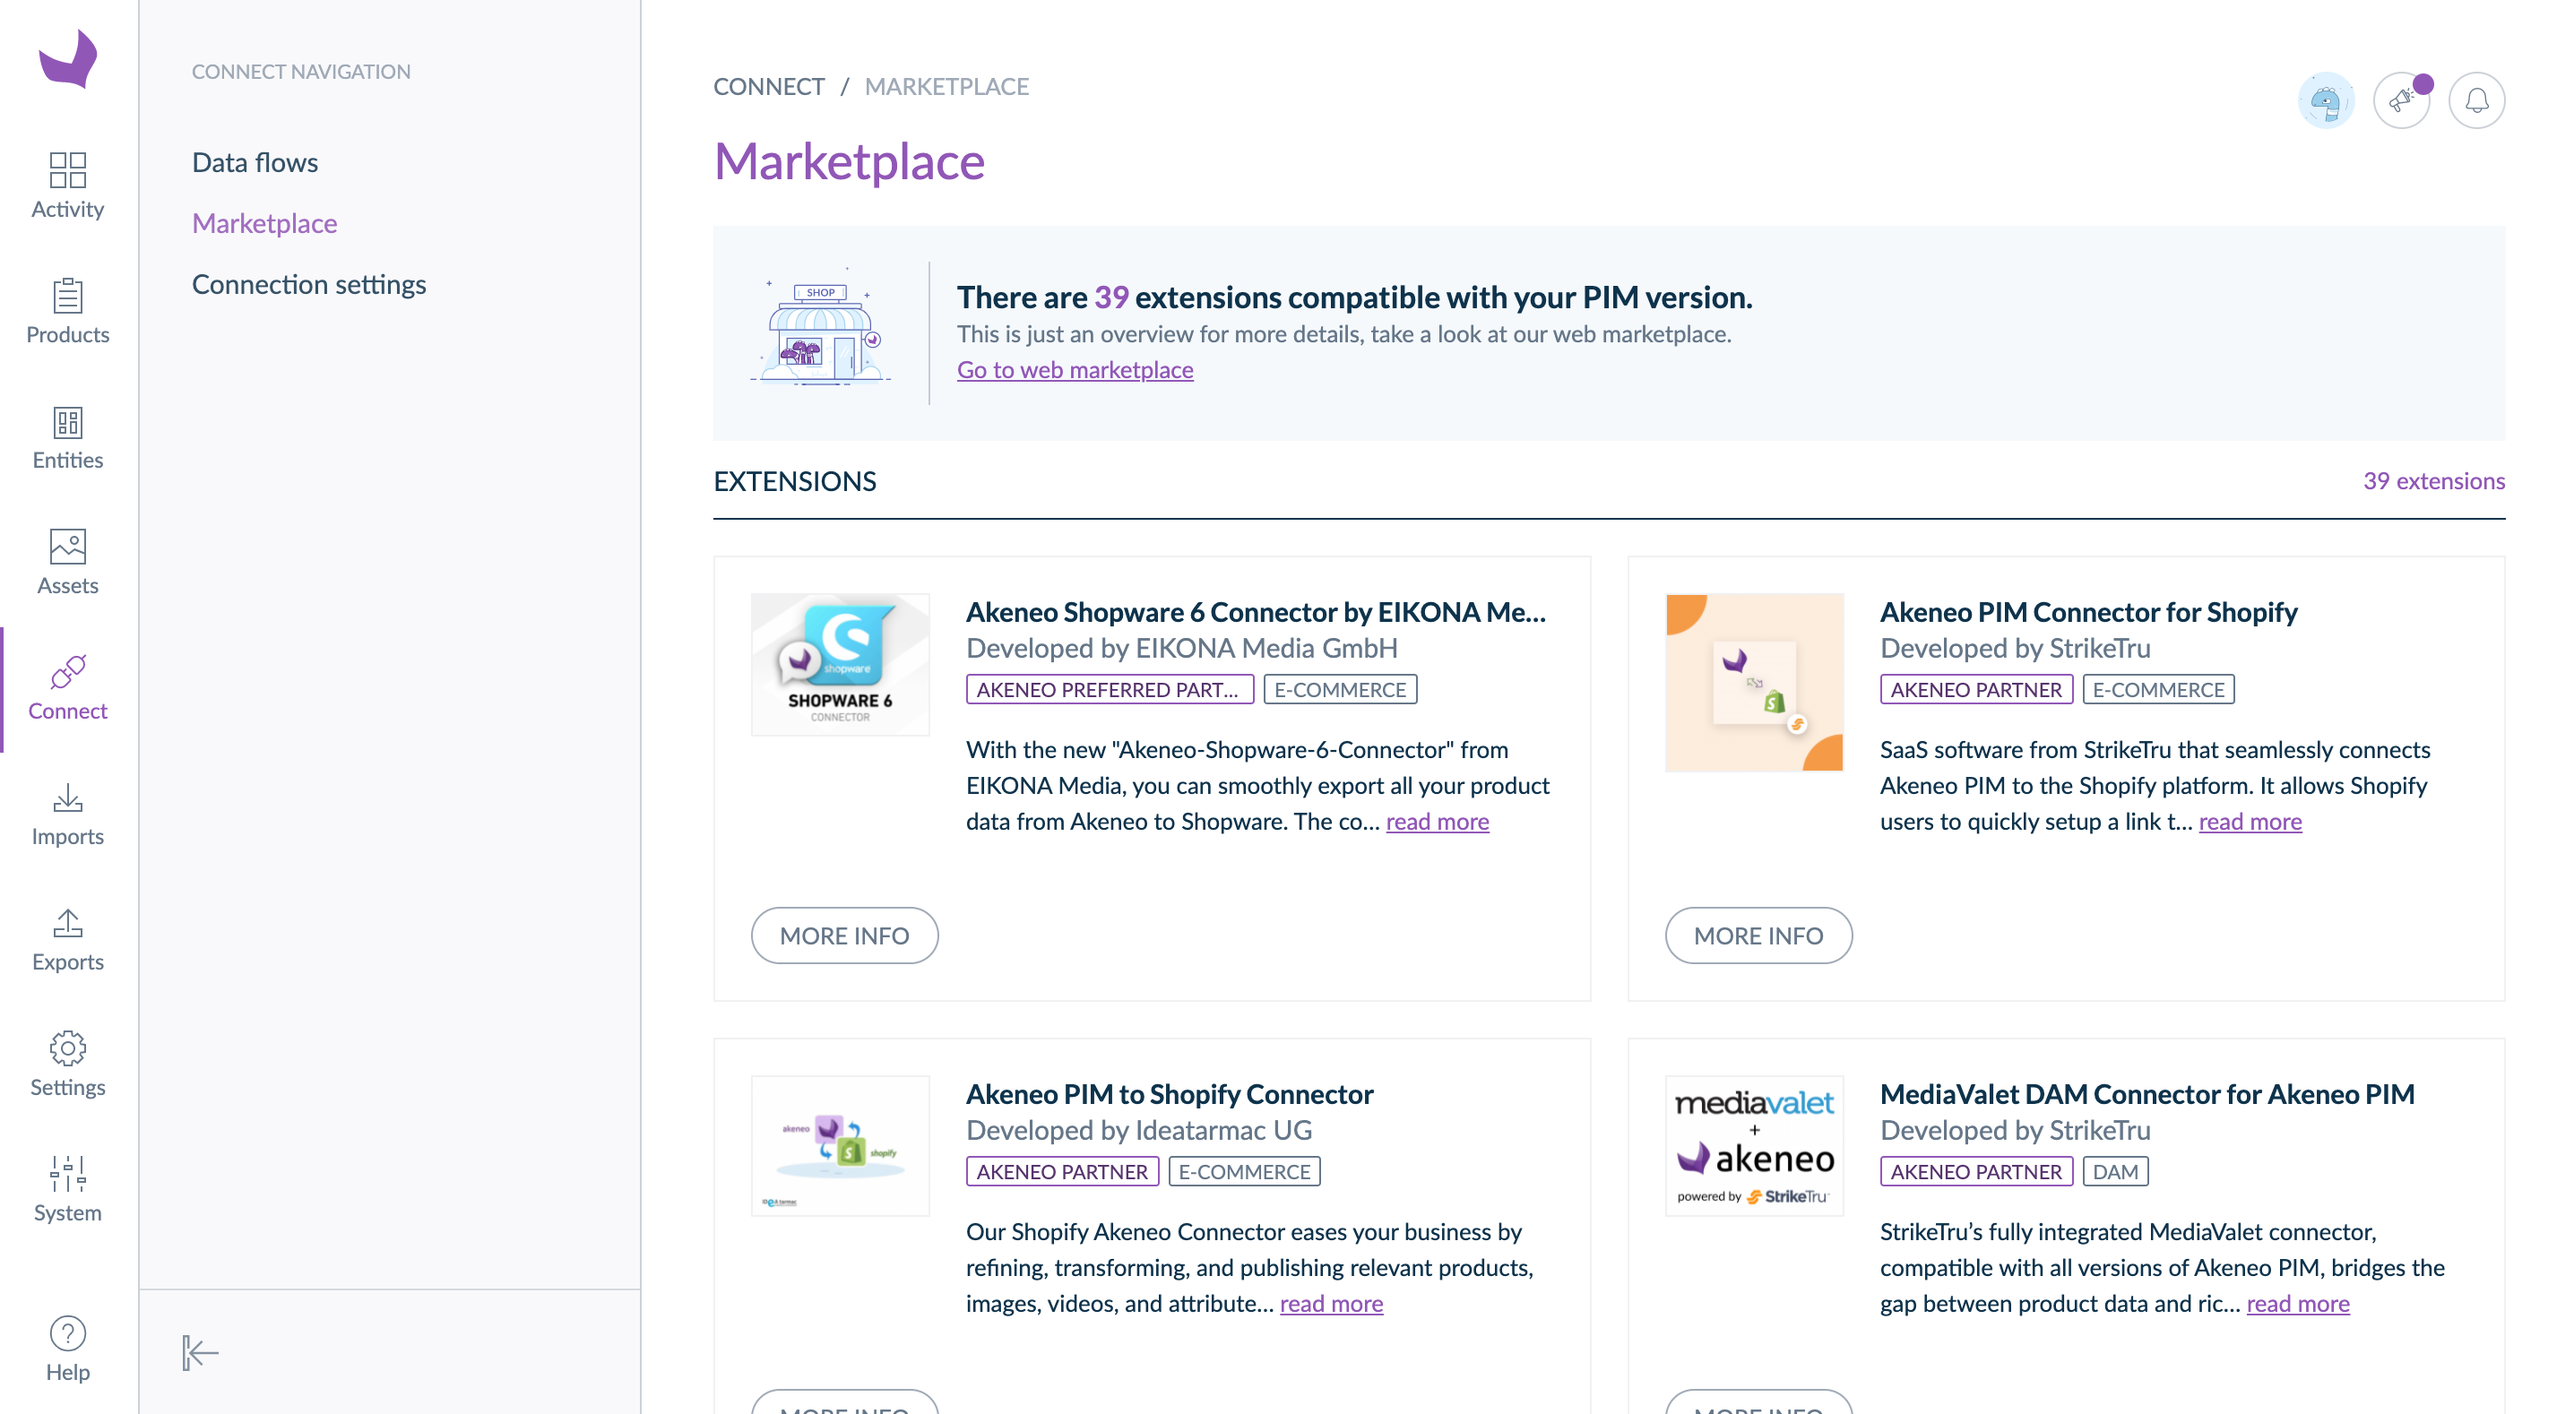
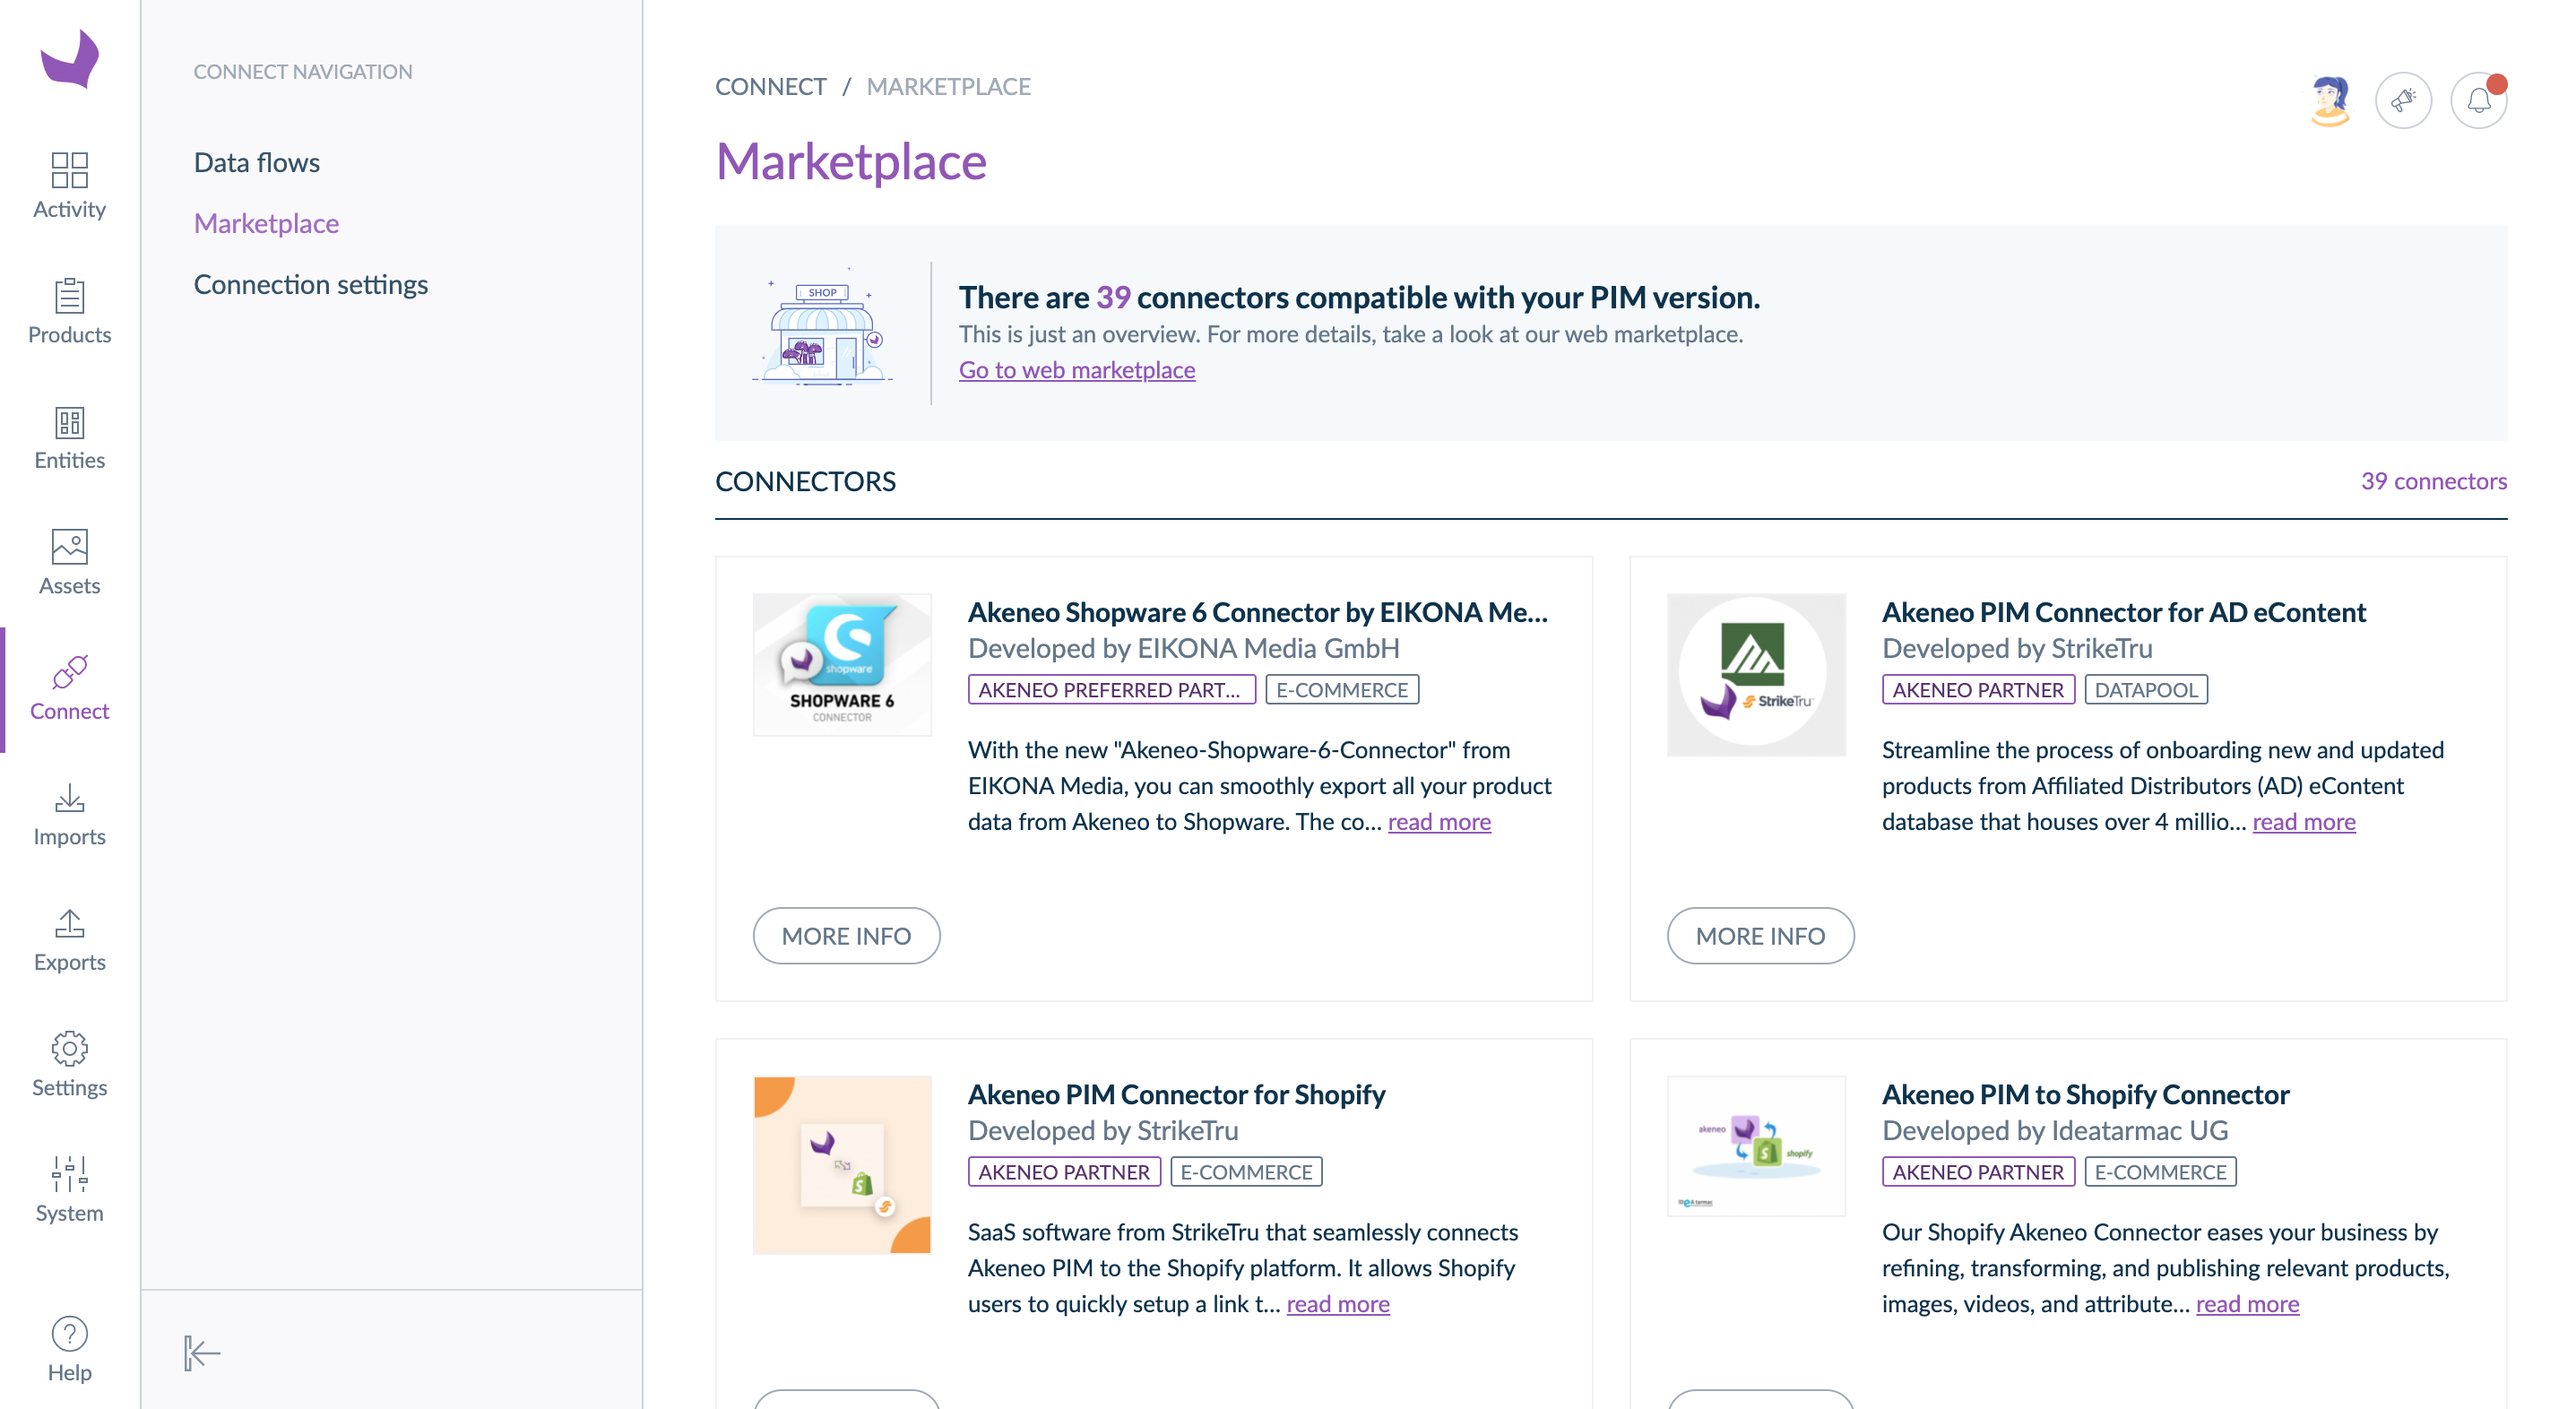
update pim marketplace

diff --git a/content/md/what-is/what-is-the-pim-marketplace.md b/content/md/what-is/what-is-the-pim-marketplace.md
@@ -9,33 +9,33 @@ related: how-to-connect-my-pim, connection-dashboard, manage-your-connections
 
 # The first step to connect your PIM
 
-At Akeneo, we know that you need to gather all your product data, but, you also need to retrieve product data or share them. This is why we introduced the `Connections` in Akeneo PIM 4.0.
+At Akeneo, we know that you need to gather all your product data, but you also need to retrieve product data or share them. This is why we introduced the `Connections` in Akeneo PIM 4.0.
 
 ::: info
 To get a complete definition of what connections are, you can read our article [What is a connection?](what-is-a-connection.html)
 :::
 
-Thanks to our community and partners, we have plenty of extensions ready to be activated on your PIM. 
-From Import/Export to e-commerce, including Translation, DAM, Print or Syndication extensions, this is a whole new world that opens to you!
+Thanks to our community and partners, we have plenty of extensions ready to be connected to your PIM. 
+From Import/Export to e-commerce, including Translation, DAM, Print, or Syndication extensions, this is a whole new world that opens to you!
 
-But how to find these extensions, how to get in touch with their creators, how to buy a connector? Lots of questions to answer! That's why, we created the `Akeneo marketplace` you can access right here: [https://marketplace.akeneo.com/](https://marketplace.akeneo.com/)
+But how to find these extensions, how to get in touch with their creators, how to buy a connector? Lots of questions to answer! That's why we created the `Akeneo marketplace` you can access right here: [https://marketplace.akeneo.com/](https://marketplace.akeneo.com/)
 
 # What's the PIM Marketplace?
 
-To ease the way find the right extension to connect your Akeneo PIM to its ecosystem we developed the PIM `Marketplace`. 
+To ease the way to find the right extension to connect your Akeneo PIM to its ecosystem, we developed the PIM `Marketplace`. 
 
 ![PIM Marketplace](../img/Pim-marketplace.png)
 
-Thanks to the PIM `Marketplace`, you are able to see all the connectors available on our Marketplace and compatible with your Akeneo PIM version and edition. When you find a connector that could be interesting, you just have to click on `More info` to reach the connector documentation. 
+Thanks to the PIM `Marketplace`, you can see all the connectors available on our Marketplace and compatible with your Akeneo PIM version and edition. When you find a connector that could be interesting, click on `More info` to reach the connector documentation. 
 
 From that page, you'll be able to read all the connector documentation, consult all the available screenshots, reach the connector developer or even download it. 
 
-To find the connectors you may need, go to your PIM `Connect` menu, click on `Marketplace`, and here you are! 
+To find the connectors you may need, go to `Connect`, then click on `Marketplace`, and here you are! 
 
-## What's a connector?
-An Akeneo connector is a bridge between Akeneo PIM and a third-party component or application. 
-It enables to collect data or spread it to one or multiple channel(s). 
+# What's a connector?
+A connector is a bridge between Akeneo PIM and a third-party component or application. 
+It enables to collect data or spread it to one or several channels. 
 
 To comply with the Serenity Edition (full-SaaS mode), Akeneo connectors should rely on our web API and be hosted outside the PIM interface. Akeneo API provides all necessary endpoints to connect the PIM structure and entities with any application.
 
-To know more about extension development and publication, please read the following articles: [How to build an extension for Akeneo PIM?](https://marketplace.akeneo.com/how-build-extension-akeneo-pim), [Extensions Approval Requirements](https://marketplace.akeneo.com/extensions-approval-requirements). Everything is available on our Web Marketplace. 
+To know more about extension development and publication, please read the following articles: [How to build an extension for Akeneo PIM?](https://marketplace.akeneo.com/how-build-extension-akeneo-pim), [Extensions Approval Requirements](https://marketplace.akeneo.com/extensions-approval-requirements). Everything is available on our Web Marketplace [https://marketplace.akeneo.com/](https://marketplace.akeneo.com/). 
